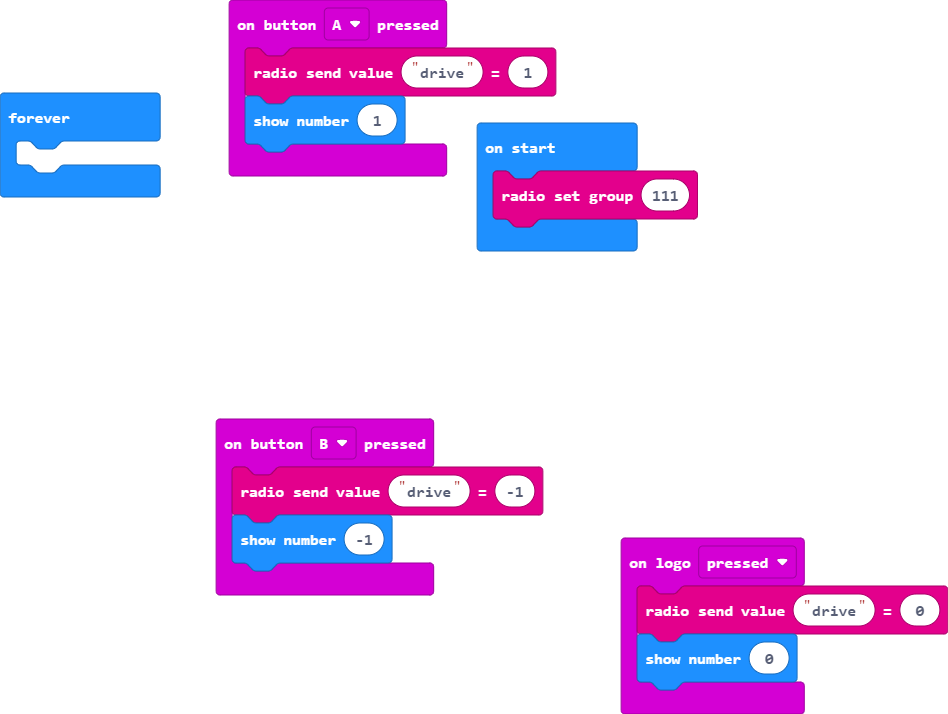
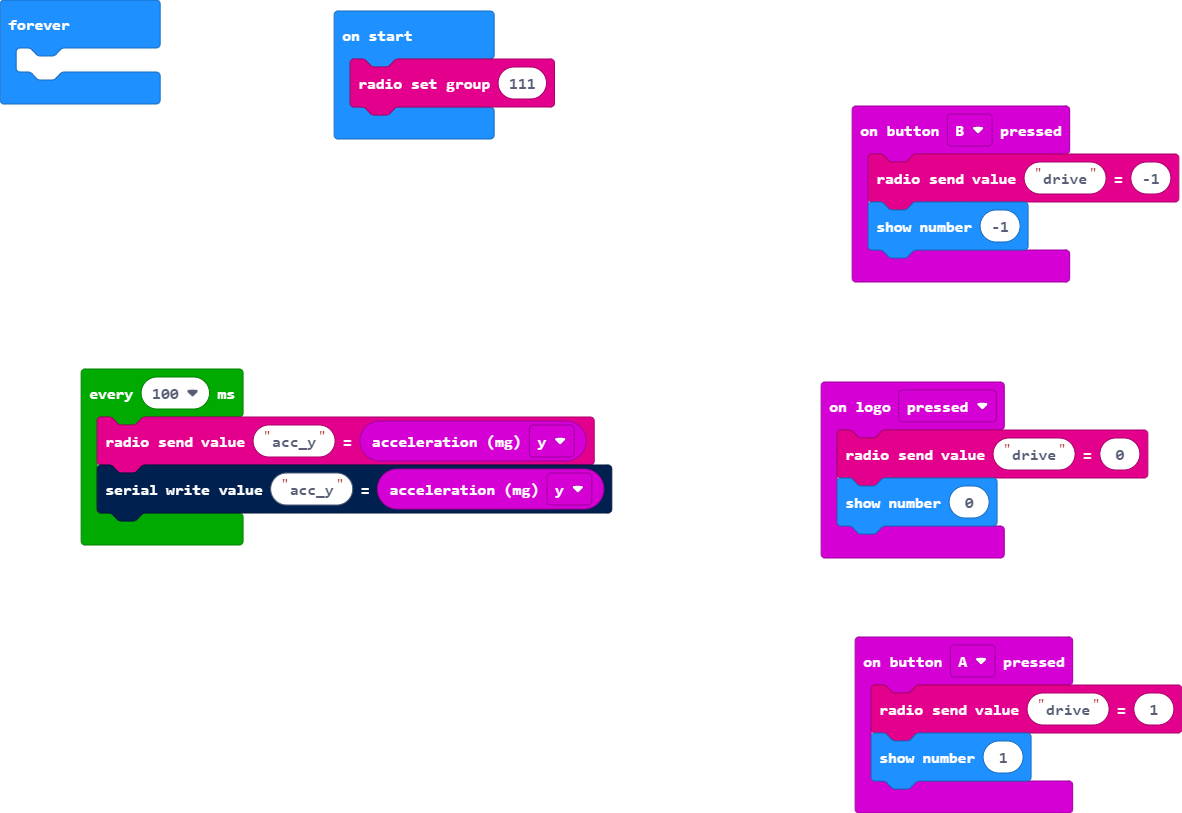
Update main.blocks, main.ts

diff --git a/main.ts b/main.ts
@@ -14,3 +14,7 @@ radio.setGroup(111)
 basic.forever(function () {
 	
 })
+loops.everyInterval(100, function () {
+    radio.sendValue("acc_y", input.acceleration(Dimension.Y))
+    serial.writeValue("acc_y", input.acceleration(Dimension.Y))
+})
